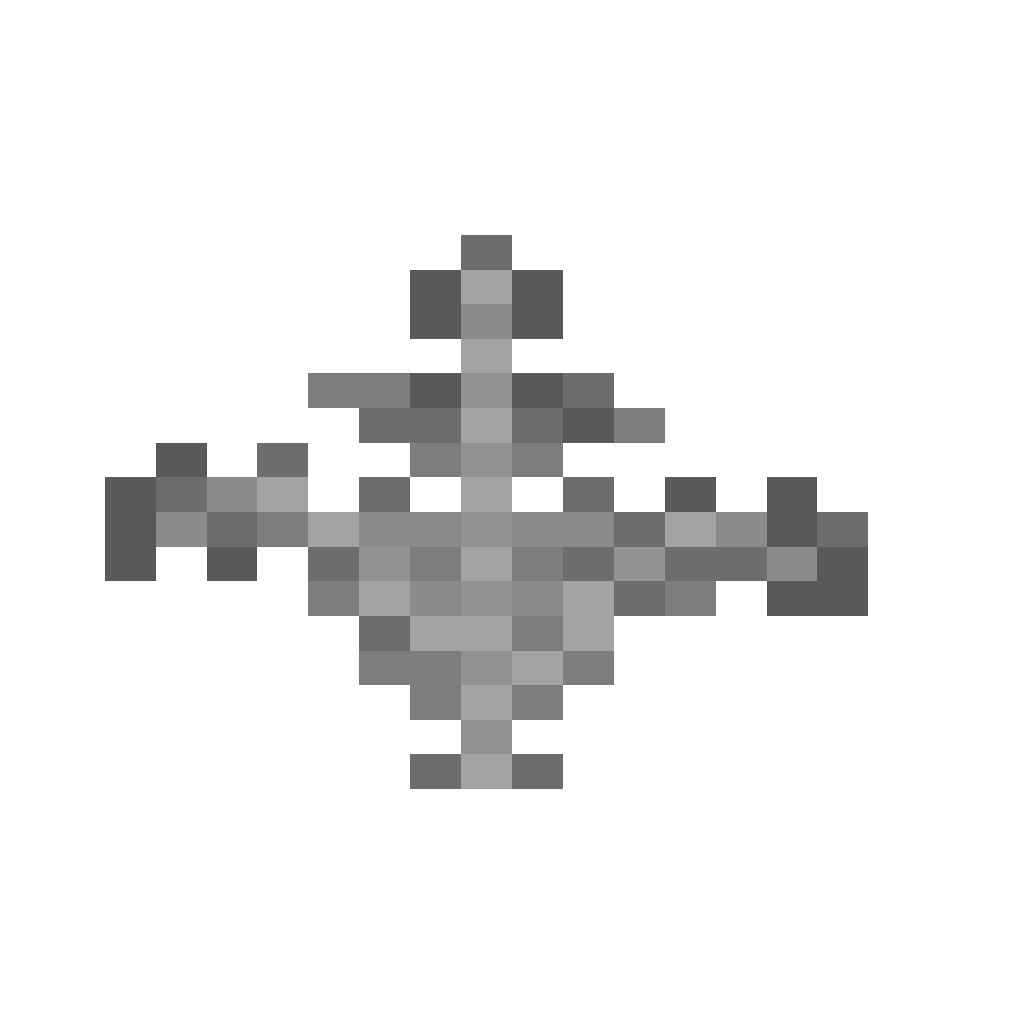
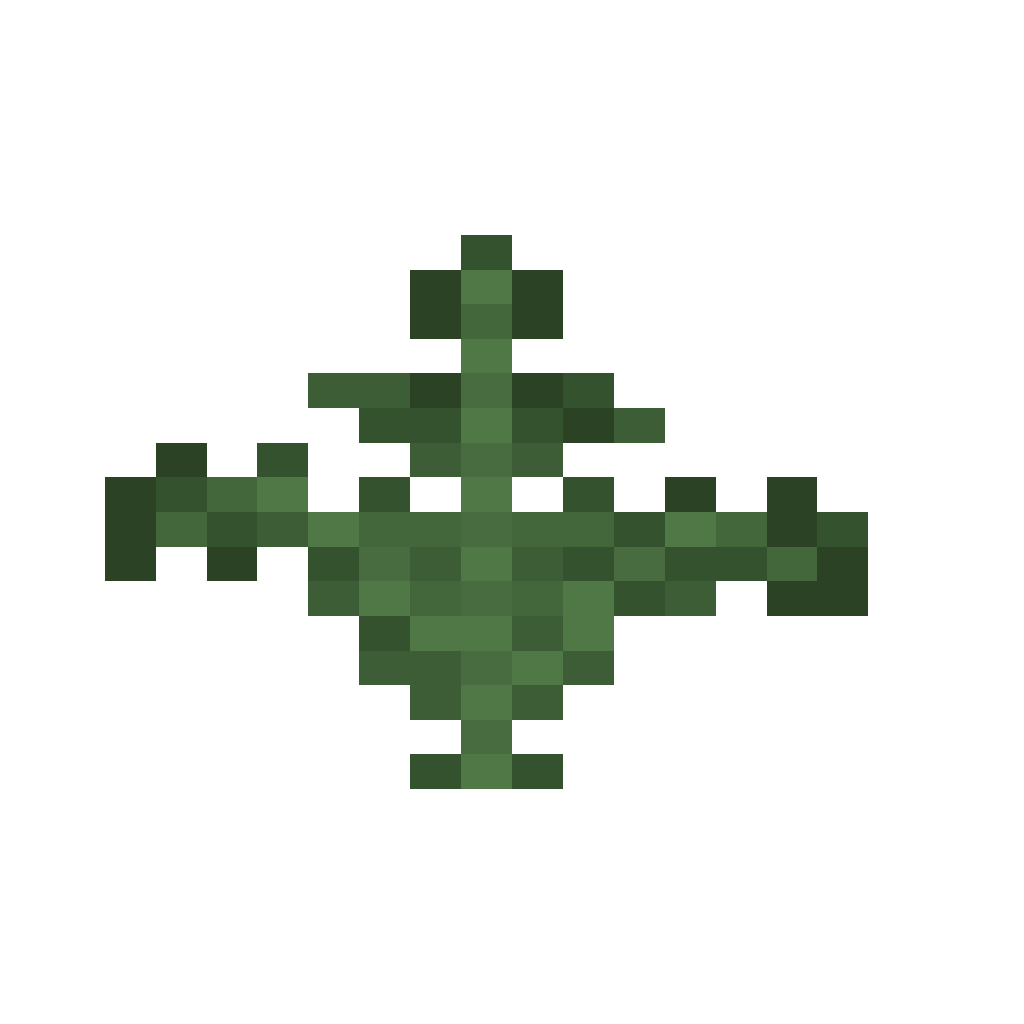
block tinting

Changed region(s): [[0.0938, 0.2188, 0.875, 0.7812]]

diff --git a/blockmodel-utils.js b/blockmodel-utils.js
@@ -70,11 +70,13 @@ const DEFAULT_BLOCKSTATES = {
   face: "wall",
   orientation: "north_up",
   side_chain: "unconnected",
-  powered: false
+  powered: false,
+  segment_amount: 4,
+  flower_amount: 4
 }
 
 const UNIQUE_DEFAULT_BLOCKSTATES = {
-  "*_mushroom_block": {
+  "*_mushroom_block|mushroom_stem": {
     north: true,
     east: true,
     south: true,
@@ -115,6 +117,15 @@ const UNIQUE_DEFAULT_BLOCKSTATES = {
     has_bottle_0: false,
     has_bottle_1: false,
     has_bottle_2: false
+  },
+  redstone_wire: {
+    north: "side",
+    south: "side",
+    east: "side",
+    west: "side"
+  },
+  "*cauldron": {
+    level: 3
   }
 }
 
@@ -133,6 +144,35 @@ function getUniqueDefault(blockstate) {
 
   return {}
 }
+
+const GRASS_BLOCKS = [
+  "bush",
+  "fern",
+  "grass_block",
+  "large_fern",
+  "pink_petals",
+  "potted_fern",
+  "short_grass",
+  "sugar_cane",
+  "tall_grass",
+  "wildflowers"
+]
+const FOLIAGE_BLOCKS = [
+  "acacia_leaves",
+  "dark_oak_leaves",
+  "jungle_leaves",
+  "mangrove_leaves",
+  "oak_leaves",
+  "vine"
+]
+const DRY_FOLIAGE_BLOCKS = [
+  "leaf_litter"
+]
+const WATER_BLOCKS = [
+  "bubble_column",
+  "water_cauldron",
+  "water"
+]
 
 export async function parseBlockstate(assets, blockstate, data = {}) {
   const { namespace, item } = resolveNamespace(blockstate)
@@ -171,6 +211,8 @@ export async function parseBlockstate(assets, blockstate, data = {}) {
       models.push(scored[0].model)
     }
   } else if (json.multipart) {
+    const ranges = new Set
+    
     const scoredParts = json.multipart.map((part, index) => {
       const when = part.when
       if (!when) return { score: 0, values: [], part, index, match: true }
@@ -181,13 +223,19 @@ export async function parseBlockstate(assets, blockstate, data = {}) {
       let score = 0
       let match = isOr ? false : true
 
-      let values = {}
+      const values = {}
 
       for (const cond of conds) {
         const matches = Object.entries(cond).every(([k, v]) => {
           const allowed = v.split("|")
           const raw = data[k] ?? getUniqueDefault(blockstate)[k] ?? DEFAULT_BLOCKSTATES[k]
-          const actuals = Array.isArray(raw) ? raw.map(e => e.toString()) : [raw?.toString()]
+          let actuals
+          if (Array.isArray(raw)) {
+            actuals = raw.map(e => e.toString())
+            ranges.add(k)
+          } else {
+            actuals = [raw?.toString()]
+          }
           const matchIndex = actuals.findIndex(val => allowed.includes(val ?? "none"))
           if (matchIndex !== -1) score += actuals.length - matchIndex
           return matchIndex !== -1
@@ -219,7 +267,9 @@ export async function parseBlockstate(assets, blockstate, data = {}) {
       .forEach(({ values, part }) => {
         if (values.some(([k, v]) => usedKeyValues[k] && usedKeyValues[k] !== v)) return
         for (const [key, value] of values) {
-          usedKeyValues[key] = value
+          if (ranges.has(key)) {
+            usedKeyValues[key] = value
+          }
         }
         const apply = Array.isArray(part.apply) ? part.apply[0] : part.apply
         if (apply?.model) models.push(apply)
@@ -230,7 +280,61 @@ export async function parseBlockstate(assets, blockstate, data = {}) {
     if (model.x && model.x % 90 !== 0 || model.y && model.y % 90 !== 0) {
       return ["~missing.json"]
     }
+
     model.type = "block"
+
+    if (GRASS_BLOCKS.includes(item)) {
+      model.tints = [await getColorMapTint(assets, "grass", 0.5, 1)]
+      if (item === "pink_petals" || item === "wildflowers") {
+        model.tints = ["#FFFFFF", model.tints[0]]
+      }
+    } else if (FOLIAGE_BLOCKS.includes(item)) {
+      model.tints = [await getColorMapTint(assets, "foliage", 0.5, 1)]
+    } else if (DRY_FOLIAGE_BLOCKS.includes(item)) {
+      model.tints = [await getColorMapTint(assets, "dry_foliage", 0.5, 1)]
+    } else if (WATER_BLOCKS.includes(item)) {
+      model.tints = ["#3F76E4"]
+    } else if (item === "birch_leaves") {
+      model.tints = ["#80A755"]
+    } else if (item === "spruce_leaves") {
+      model.tints = ["#619961"]
+    } else if (item === "lily_pad") {
+      model.tints = ["#208030"]
+    } else if (item === "lily_pad") {
+      model.tints = ["#208030"]
+    } else if (item === "melon_stem" || item === "pumpkin_stem") {
+      model.tints = [[
+        "#00FF00",
+        "#20F704",
+        "#40EF08",
+        "#60E70C",
+        "#80DF10",
+        "#A0D714",
+        "#C0CF18",
+        "#E0C71C"
+      ][data.age ?? 7]]
+    } else if (item.includes("attached_melon_stem") || item === "attached_pumpkin_stem") {
+      model.tints = ["#E0C71C"]
+    } else if (item === "redstone_wire") {
+      model.tints = [[
+        "#4B0000",
+        "#6F0000",
+        "#790000",
+        "#820000",
+        "#8C0000",
+        "#970000",
+        "#A10000",
+        "#AB0000",
+        "#B50000",
+        "#BF0000",
+        "#CA0000",
+        "#D30000",
+        "#DD0000",
+        "#E70600",
+        "#F11B00",
+        "#FC3100"
+      ][data.power ?? 0]]
+    }
   }
 
   return models
